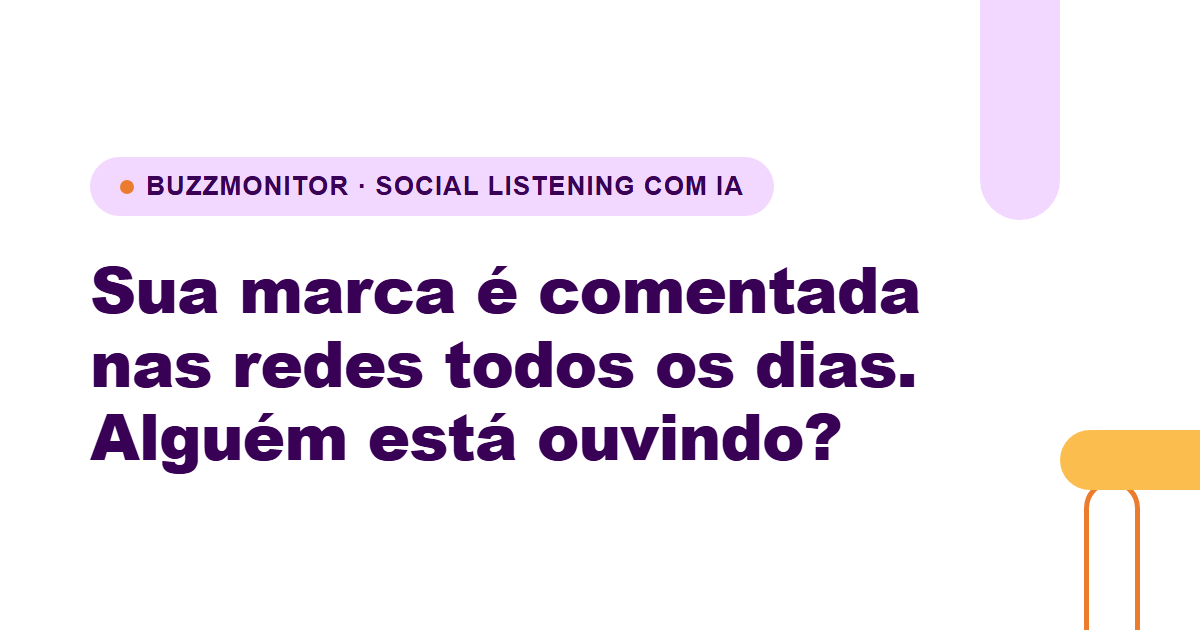
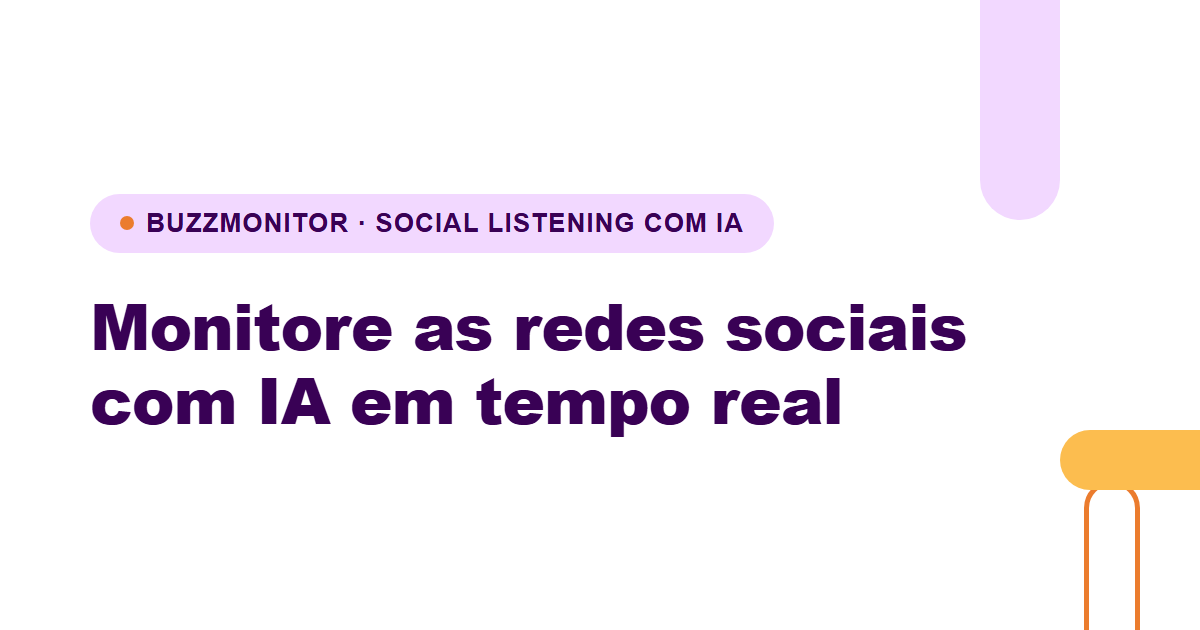
Regenerar og-image da LP monitoramento com titulo atualizado (#112)

Changed region(s): [[0.0617, 0.2413, 0.8017, 0.754]]

diff --git a/landing-pages/buzzmonitor/plataforma-completa-monitoramento/assets/og-source.html b/landing-pages/buzzmonitor/plataforma-completa-monitoramento/assets/og-source.html
@@ -34,7 +34,7 @@
   <span class="pill" style="width:56px;height:190px;border:5px solid var(--primary);bottom:-40px;right:60px"></span>
   <span class="pill" style="width:170px;height:60px;background:var(--warning);bottom:140px;right:-30px"></span>
   <div class="overline"><span class="dot"></span>Buzzmonitor &middot; Social listening com IA</div>
-  <h1>Sua marca &eacute; comentada nas redes todos os dias. Algu&eacute;m est&aacute; ouvindo?</h1>
+  <h1>Monitore as redes sociais com IA em tempo real</h1>
   <div class="brand"><img src="../../../brand/buzzmonitor/assets/logos/logo-primary.png" alt=""></div>
 </body>
 </html>
